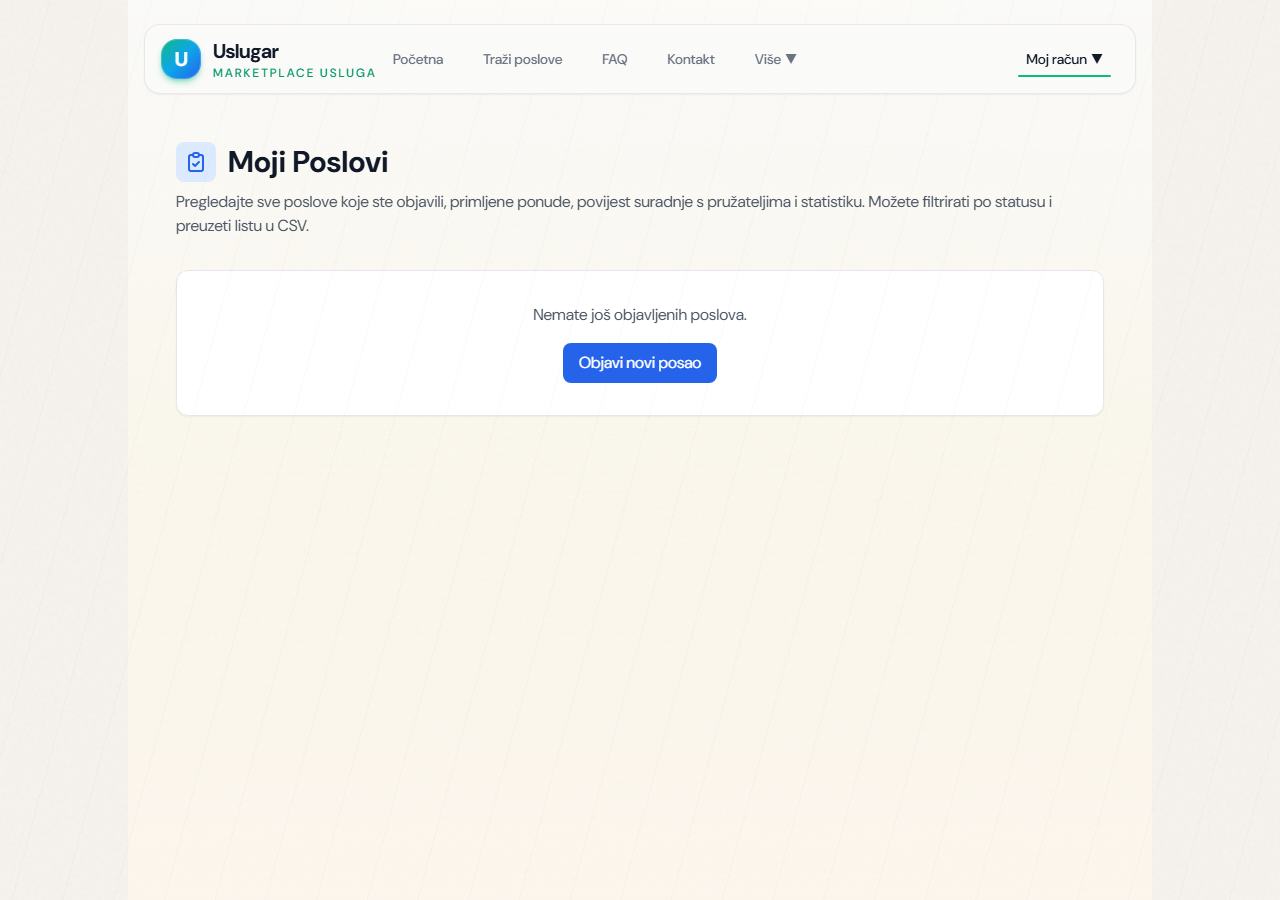
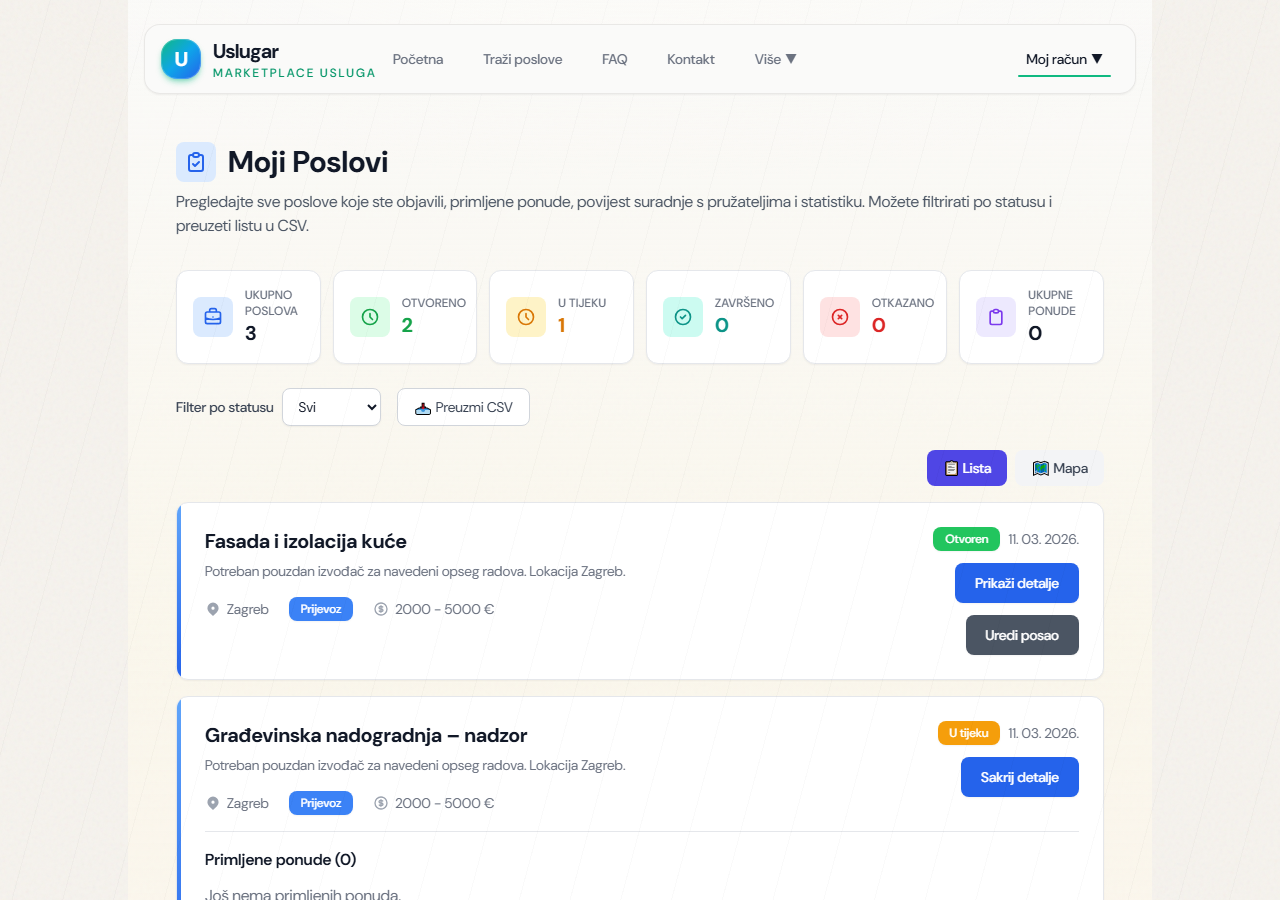
s

diff --git a/Uslugar/backend/src/services/screenshot-demo-data-service.js b/Uslugar/backend/src/services/screenshot-demo-data-service.js
@@ -8,11 +8,50 @@
  */
 import { prisma } from '../lib/prisma.js';
 import { purchaseLead, markLeadContacted, markLeadConverted } from './lead-service.js';
+import { deductCredits } from './credit-service.js';
 
 const DOMAIN = process.env.SCREENSHOT_TEST_DOMAIN || 'uslugar.hr';
 
 function email(suffix) {
   return `screenshot-${suffix}@${DOMAIN}`;
+}
+
+/** Ako purchaseLead ne uspije, kreiraj LeadPurchase ručno da Moji leadovi i ROI imaju podatke. */
+async function ensureMarkoHasLeadPurchases(marko, allAvailableJobs) {
+  const toUse = allAvailableJobs.slice(0, 2);
+  if (toUse.length === 0) return [];
+  const purchases = [];
+  for (const job of toUse) {
+    const existing = await prisma.leadPurchase.findFirst({
+      where: { jobId: job.id, providerId: marko.id, status: { not: 'REFUNDED' } },
+    });
+    if (existing) {
+      purchases.push(existing);
+      continue;
+    }
+    try {
+      await deductCredits(marko.id, job.leadPrice || 10, `Lead: ${job.title}`, job.id);
+    } catch (e) {
+      console.warn('[SCREENSHOT-DEMO] deductCredits failed:', e.message);
+      continue;
+    }
+    const purchase = await prisma.leadPurchase.create({
+      data: {
+        jobId: job.id,
+        providerId: marko.id,
+        creditsSpent: job.leadPrice || 10,
+        leadPrice: job.leadPrice || 10,
+        status: 'ACTIVE',
+        contactUnlocked: false,
+      },
+    });
+    await prisma.job.update({
+      where: { id: job.id },
+      data: { assignedProviderId: marko.id, leadStatus: 'ASSIGNED' },
+    });
+    purchases.push(purchase);
+  }
+  return purchases;
 }
 
 /**
@@ -119,15 +158,42 @@ export async function ensureScreenshotDemoData() {
     (j) => j.leadStatus === 'AVAILABLE' && !j.assignedProviderId
   );
 
-  // 5) Marko kupuje 2 leada
+  // Osiguraj pretplatu za Marka (potrebno za purchaseLead ili fallback deductCredits)
+  let markoSub = await prisma.subscription.findUnique({ where: { userId: marko.id } });
+  if (!markoSub) {
+    await prisma.subscription.create({
+      data: {
+        userId: marko.id,
+        plan: 'BASIC',
+        status: 'ACTIVE',
+        creditsBalance: 50,
+        lifetimeCreditsUsed: 0,
+        lifetimeLeadsConverted: 0,
+      },
+    });
+  } else if (markoSub.creditsBalance < 20) {
+    await prisma.subscription.update({
+      where: { userId: marko.id },
+      data: { creditsBalance: 50 },
+    });
+  }
+
+  // 5) Marko kupuje 2 leada (purchaseLead koristi kredite)
   const toPurchase = allAvailableJobs.slice(0, 2);
-  const purchases = [];
+  let purchases = [];
   for (const job of toPurchase) {
     try {
       const result = await purchaseLead(job.id, marko.id, {});
       purchases.push(result.purchase);
     } catch (e) {
       console.warn('[SCREENSHOT-DEMO] purchaseLead failed:', job.id, e.message);
+    }
+  }
+  // Fallback: ako nijedna kupnja nije uspjela, kreiraj LeadPurchase ručno (Moji leadovi + ROI)
+  if (purchases.length === 0) {
+    purchases = await ensureMarkoHasLeadPurchases(marko, allAvailableJobs);
+    if (purchases.length > 0) {
+      console.log('[SCREENSHOT-DEMO] Kreirani leadovi ručno (fallback):', purchases.length);
     }
   }
 

diff --git a/Uslugar/frontend/src/pages/LeadMarketplace.jsx b/Uslugar/frontend/src/pages/LeadMarketplace.jsx
@@ -34,10 +34,22 @@ export default function LeadMarketplace() {
       const response = await getAvailableLeads(filters);
       setLeads(response.data.leads);
     } catch (err) {
-      if (err?.response?.status === 401) {
+      const status = err?.response?.status;
+      const backendError = err?.response?.data?.error;
+      if (status === 401) {
         setError('Nedostaje prijava. Prijavite se ili registrirajte kao pružatelj usluga.');
+      } else if (status === 403) {
+        // Ne prikazuj sirovi "Forbidden" tekst – prikaži razumljivu poruku
+        setError(
+          'Ekskluzivni leadovi su dostupni samo odobrenim pružateljima usluga s aktivnom pretplatom. ' +
+          'Provjerite je li vaš profil odobren i da imate aktivan paket.'
+        );
       } else {
-        setError(err.response?.data?.error || 'Greška pri učitavanju leadova');
+        setError(
+          backendError && backendError !== 'Forbidden'
+            ? backendError
+            : 'Greška pri učitavanju leadova ili nemate pristup tržnici leadova.'
+        );
       }
     } finally {
       setLoading(false);
